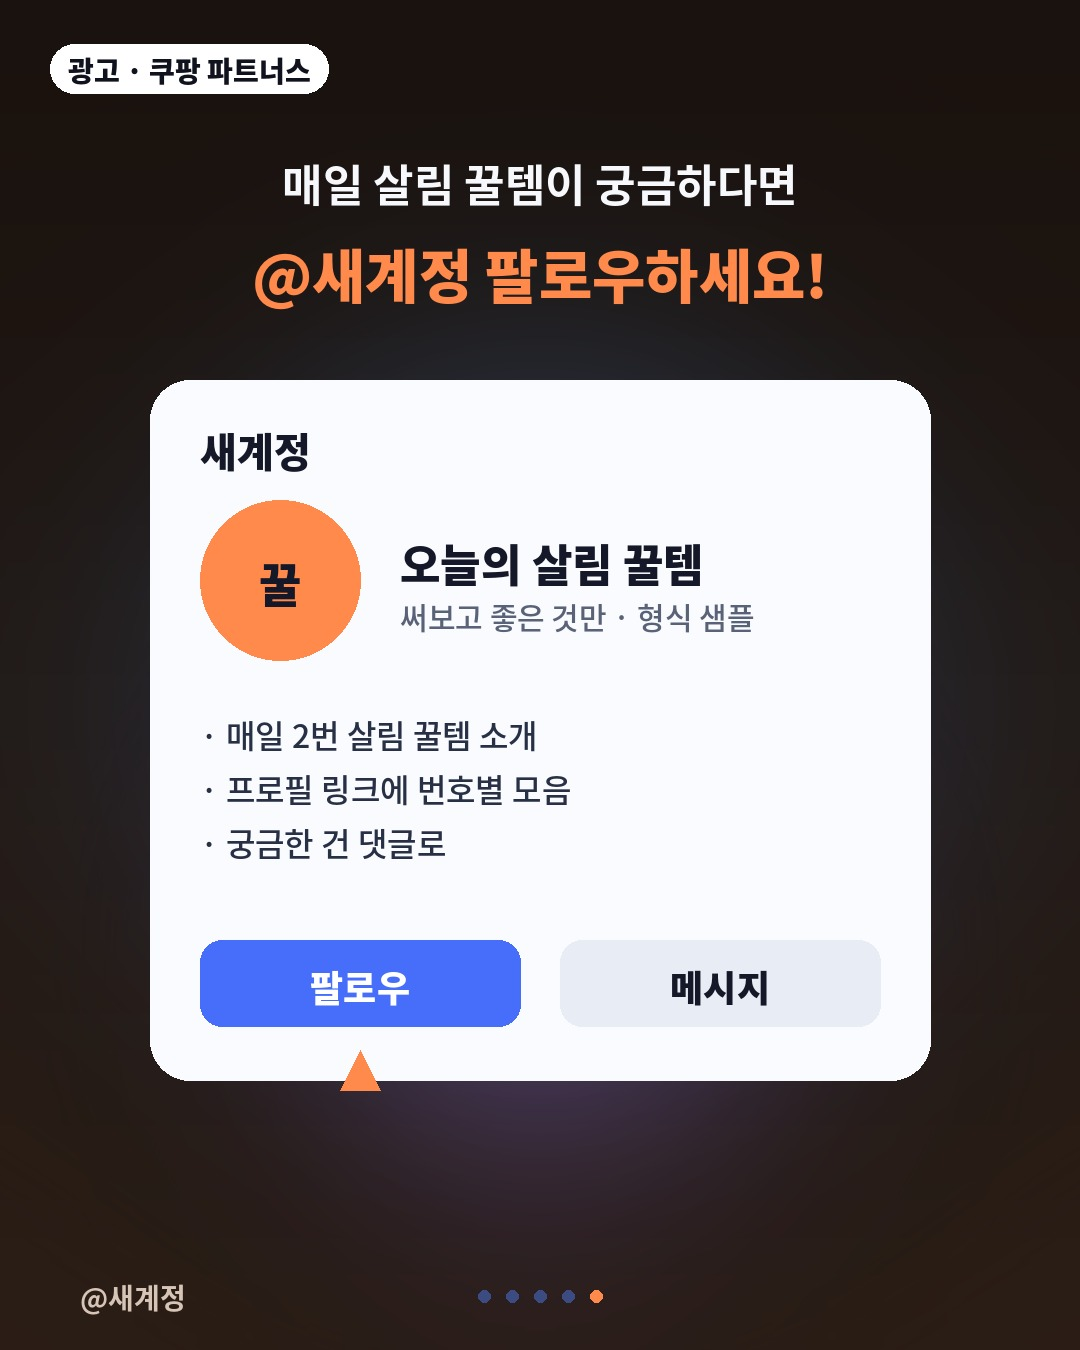
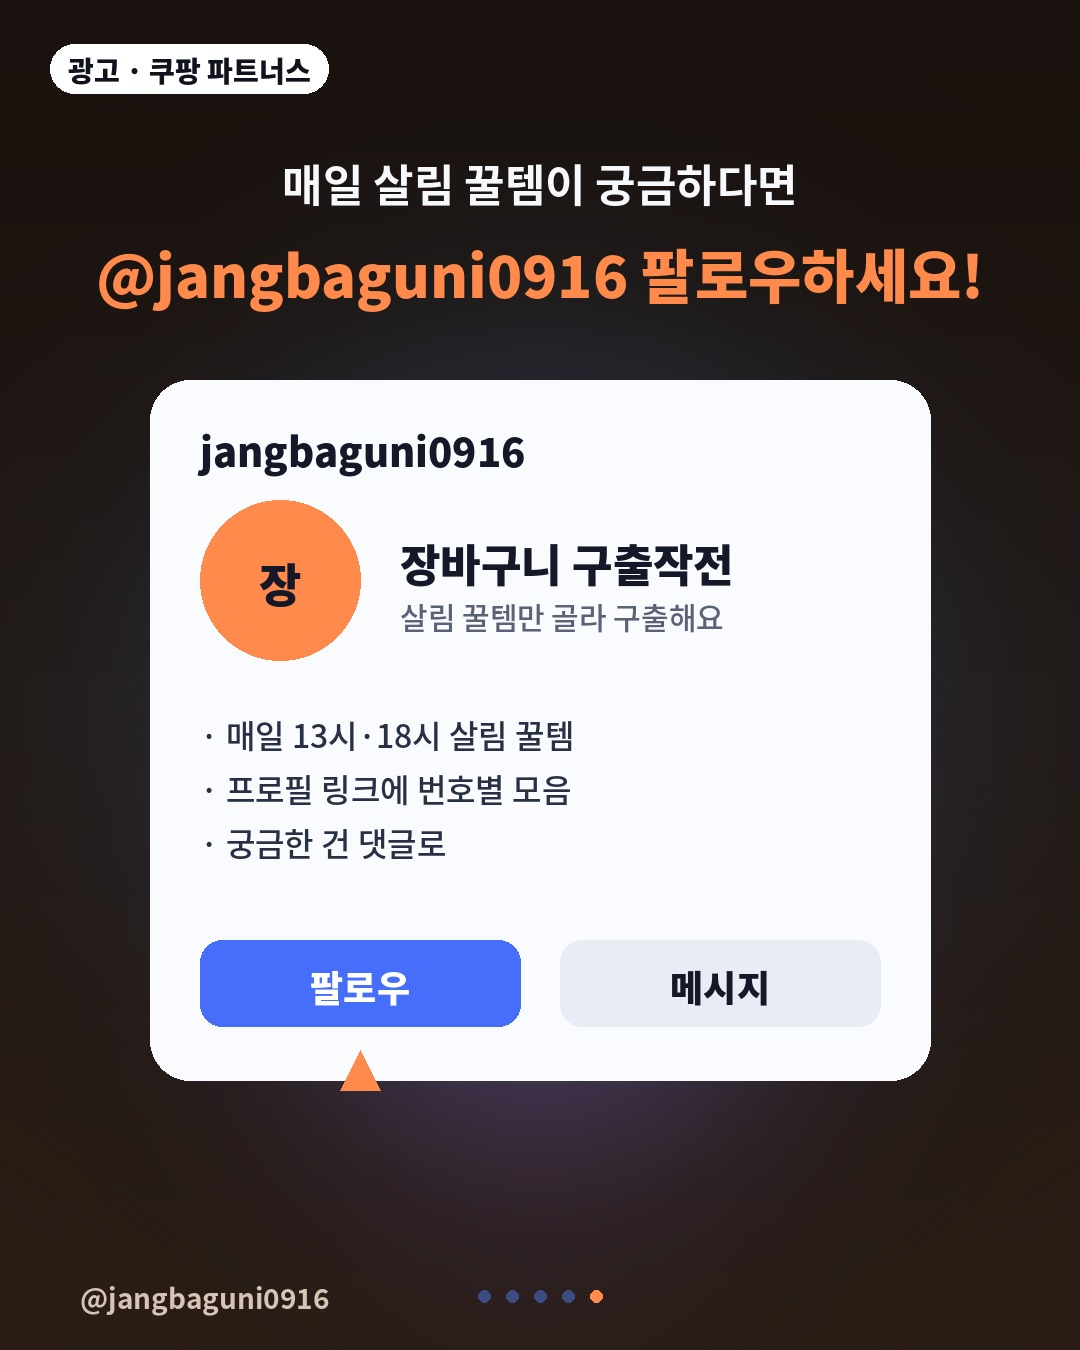
장바구니 구출작전: 계정 정보, 플레이북, 링크 페이지
Claude-Session: https://claude.ai/code/session_01VQQ9ZYNrZeGaHthLbSRM4d

diff --git a/docs/picks/index.html b/docs/picks/index.html
@@ -1,5 +1,5 @@
 <!doctype html><html lang="ko"><head><meta charset="utf-8"><meta name="viewport" content="width=device-width,initial-scale=1">
-<title>오늘의 살림 꿀템</title>
+<title>장바구니 구출작전 · 오늘의 살림 꿀템</title>
 <style>
 :root{--bg:#fff8f0;--card:#fff;--ink:#1f1a17;--sub:#7a6f66;--acc:#ff7a45;--line:#f0e4d8}
 body{margin:0;background:var(--bg);color:var(--ink);font-family:system-ui,-apple-system,"Noto Sans KR",sans-serif}
@@ -12,6 +12,6 @@ h1{font-size:22px;margin:20px 0 4px} .handle{color:var(--sub);margin:0 0 14px}
 .go{color:var(--acc);font-weight:700} .empty{color:var(--sub);text-align:center;padding:40px 0}
 </style></head><body><div class="wrap">
 <div class="disc">📢 이 포스팅은 쿠팡 파트너스 활동의 일환으로, 이에 따른 일정액의 수수료를 제공받습니다.</div>
-<h1>오늘의 살림 꿀템</h1><p class="handle">@새계정 · 게시물 번호로 찾아보세요</p>
+<h1>장바구니 구출작전 · 오늘의 살림 꿀템</h1><p class="handle">@jangbaguni0916 · 게시물 번호로 찾아보세요</p>
 <p class="empty">곧 첫 꿀템이 올라와요!</p>
 </div></body></html>

diff --git a/picks/PLAYBOOK.md b/picks/PLAYBOOK.md
@@ -1,0 +1,56 @@
+# 장바구니 구출작전 플레이북 (인스타 @jangbaguni0916 · 유튜브 "장바구니 구출작전")
+
+쿠팡 파트너스 수익용 생활 꿀템·살림템 계정. 예약 작업이 실행될 때마다 이 문서를 그대로 따른다.
+
+## 0. 시간 (한국 시간, 매일)
+| 작업 시작 | 카드뉴스 게시 | 쇼츠 게시 | 폴더 |
+|---|---|---|---|
+| 12시대 | 13:00 | 13:30 | `picks/drafts/YYYY-MM-DD-1300/`, `picks/shorts/drafts/YYYY-MM-DD-1330/` |
+| 16시대 | 18:00 | 18:30 | `picks/drafts/YYYY-MM-DD-1800/`, `picks/shorts/drafts/YYYY-MM-DD-1830/` |
+
+## 1. 승인 방식
+- **2026-11-11 까지**: 초안을 보내고 사용자가 "게시해줘" 하기 전에는 절대 approved 로 옮기지 않는다.
+- **2026-11-12 부터**: 아래 7단계 '자동 게시 전 검사'를 모두 통과하면 바로 approved 로 옮기고, 게시 링크를 사용자에게 알린다. 검사 하나라도 실패하면 자동 게시하지 않고 초안으로 보내 확인을 받는다.
+
+## 2. 상품 고르기 (상품 2개: 카드뉴스 1, 쇼츠 1, 서로 다른 상품)
+1. `picks/topics_log.md` 를 읽고 최근 30일 안에 다룬 상품은 피한다.
+2. **인스타 분석 (크롬, 꿀템 인스타 로그인 상태)**: `picks/benchmark_accounts.md` 계정들의 최근 7일 게시물에서 반응(좋아요·댓글) 높은 상품군을 본다. 목록이 5개 미만이면 #살림템 #살림꿀템 #자취꿀템 #주방꿀템 검색으로 잘 되는 계정을 찾아 추가한다. 안전 규칙: 이동마다 3~5초 쉬기, 계정 5개까지, 좋아요·팔로우·댓글·DM 금지, 경고·로그인 요구 시 즉시 중단. 남의 문구·사진은 가져오지 않는다.
+3. 계절·시기(예: 겨울 결로, 김장, 대청소)와 웹 검색 트렌드를 더해 후보 3~4개.
+4. **교차 검증**: Claude 앱 내장 브라우저로 chatgpt.com, gemini.google.com 에 후보와 핵심 사실을 보여주고 "인스타 살림템으로 반응 좋을 순서, 과장·사실 오류"를 묻는다. 못 하면 "⚠ 교차 검증 못 함(이유)".
+5. 피할 상품: 의약품·건강기능식품·의료기기(효능 표현 규제), 성인용품, 담배·주류, 위험물, 리뷰가 적거나(100개 미만) 평점 4.0 미만인 상품.
+
+## 3. 쿠팡 파트너스 링크 만들기 (크롬, 쿠팡 파트너스 로그인 상태)
+1. https://partners.coupang.com 홈의 **상품검색**에 상품명을 검색한다.
+2. 리뷰 많고 평점 높은 상품 1개를 골라 **링크 생성(URL 생성)** 버튼으로 파트너스 단축 링크(`https://link.coupang.com/a/...`)를 만든다. 페이지 글로 링크를 읽어 확인한다. 구매·결제·설정 변경은 절대 하지 않는다.
+3. `picks/links.json` 의 items 에 `{"no": 다음 번호, "name": 상품 이름(짧게), "note": 한 줄 소개, "url": 파트너스 링크, "date": "YYYY-MM-DD"}` 를 추가하고 `python3 tools/build_links.py` 로 링크 페이지를 다시 만든다.
+4. 로그인 화면이 뜨면 로그인하지 말고 멈춘 뒤 "⚠ 쿠팡 파트너스 로그인 필요"를 보낸다.
+5. 최종 승인 후 GitHub Secrets 에 `COUPANG_ACCESS_KEY`·`COUPANG_SECRET_KEY` 가 생기면 API 방식으로 바꾼다(사용자가 알려줌).
+
+## 4. 카드뉴스 (content.json) — 형식은 `samples/picks/content.json` 참고
+- 반드시 포함: `"ad_label": "광고 · 쿠팡 파트너스"`, `"theme"`, `"brand": "@jangbaguni0916"`, `"store_tag": ["장바구니","구출작전"]`, `"store_name": "장바구니 구출작전"`, `"avatar_text": "장"`, `"post_at"`.
+- 6장: 1 hero(`tag` 비주얼: kicker "오늘의 꿀템 N번", 상품 이름, 한 줄 장점) → 2 문제(이런 불편 있죠?) → 3 해결(이 상품이 어떻게) → 4 사용법·팁 → 5 "프로필 링크 → N번" → 6 follow(head: "매일 살림 꿀템이 궁금하다면" / "@jangbaguni0916 팔로우하세요!").
+- 가격은 숫자로 쓰지 않는다(수시로 바뀜). "링크에서 오늘 가격 확인"으로 쓴다. "최저가", "무조건", 효능·의학적 표현 금지. 써 본 것처럼 쓰지 않는다(직접 사용 후기 아님).
+- 상품 사진은 쓰지 않는다(사용자가 직접 찍어 준 사진만 `photo` 로 사용 가능).
+- `caption.txt`: 후킹 1줄 → ✔ 장점 3줄 → "프로필 링크 → N번에서 확인" → 댓글 유도 질문 → 해시태그 10개 이내(#살림템 #살림꿀템 등). 대가성 문구와 꼬리말은 게시할 때 자동으로 맨 앞·뒤에 붙으니 넣지 않는다.
+
+## 5. 쇼츠 (script.json) — 형식은 `shorts/drafts/2026-10-28-sample/script.json` 참고
+- 반드시 포함: `"ad_label": "광고 · 쿠팡 파트너스"`, `"store_tag": ["장바구니","구출작전"]`, `"post_at"`, `"yt_title"`(끝에 #Shorts), `"yt_tags"`.
+- 5~7장면, 25~40초. 첫 장면 3초 안에 "이거 하나로 해결!" 같은 후킹. 마지막 장면: "프로필 링크 N번에서 확인하세요".
+- 내레이션 첫 문장에 "광고 포함 영상입니다" 같은 짧은 고지를 넣는다.
+- `caption` 규칙은 카드뉴스와 같다(해시태그 끝에 #Shorts). push 하면 GitHub 이 영상을 만든다(쇼츠 영상 제작 작업, 2~3분). 완료 후 pull, 프레임 확인.
+
+## 6. 기록
+- `picks/topics_log.md` 에 `- YYYY-MM-DD HHMM 카드|쇼츠: 상품명 (N번)` 추가.
+
+## 7. 자동 게시 전 검사 (모두 통과해야 함)
+- 카드 모든 장 왼쪽 위·쇼츠 모든 장면에 "광고 · 쿠팡 파트너스" 표시가 보인다.
+- 캡션에 가격 숫자, "최저가", 효능 표현이 없다.
+- links.json 에 이번 번호의 링크가 있고 `https://link.coupang.com/` 으로 시작한다.
+- 링크 페이지(docs/picks/index.html)를 다시 만들어 커밋했다.
+- 글자 넘침·겹침이 없다(모든 장·장면 직접 확인).
+
+## 8. 게시
+- 승인(또는 자동 게시 조건 충족) 후 `git mv picks/drafts/<폴더> picks/approved/<폴더>`, `git mv picks/shorts/drafts/<폴더> picks/shorts/approved/<폴더>` → 커밋 → push.
+- 게시 시각이 아직 안 됐으면 이 세션에서 `send_later` 로 게시 시각 1분 뒤 알림을 걸고, 알림이 오면
+  `gh api -X POST repos/yet933781-creator/cardnews/actions/workflows/picks-post.yml/dispatches -f ref=main` 로 직접 게시한다.
+- 게시 후 posted.json 의 링크(인스타, 릴스, 유튜브)를 사용자에게 알린다.

diff --git a/picks/benchmark_accounts.md b/picks/benchmark_accounts.md
@@ -1,0 +1,6 @@
+# 꿀템 계정 벤치마킹 (인스타)
+
+처음에는 비어 있다. 예약 작업이 인스타에서 #살림템 #살림꿀템 #자취꿀템 #주방꿀템 을 검색해
+반응 좋은 살림템 계정을 찾으면 여기에 한 줄씩 추가한다 (최대 10개).
+
+형식: - @핸들 — 한 줄 메모 (자주 다루는 상품군, 잘 되는 형식)

diff --git a/picks/topics_log.md b/picks/topics_log.md
@@ -1,0 +1,1 @@
+# 장바구니 구출작전 다룬 상품 기록 (중복 방지)
